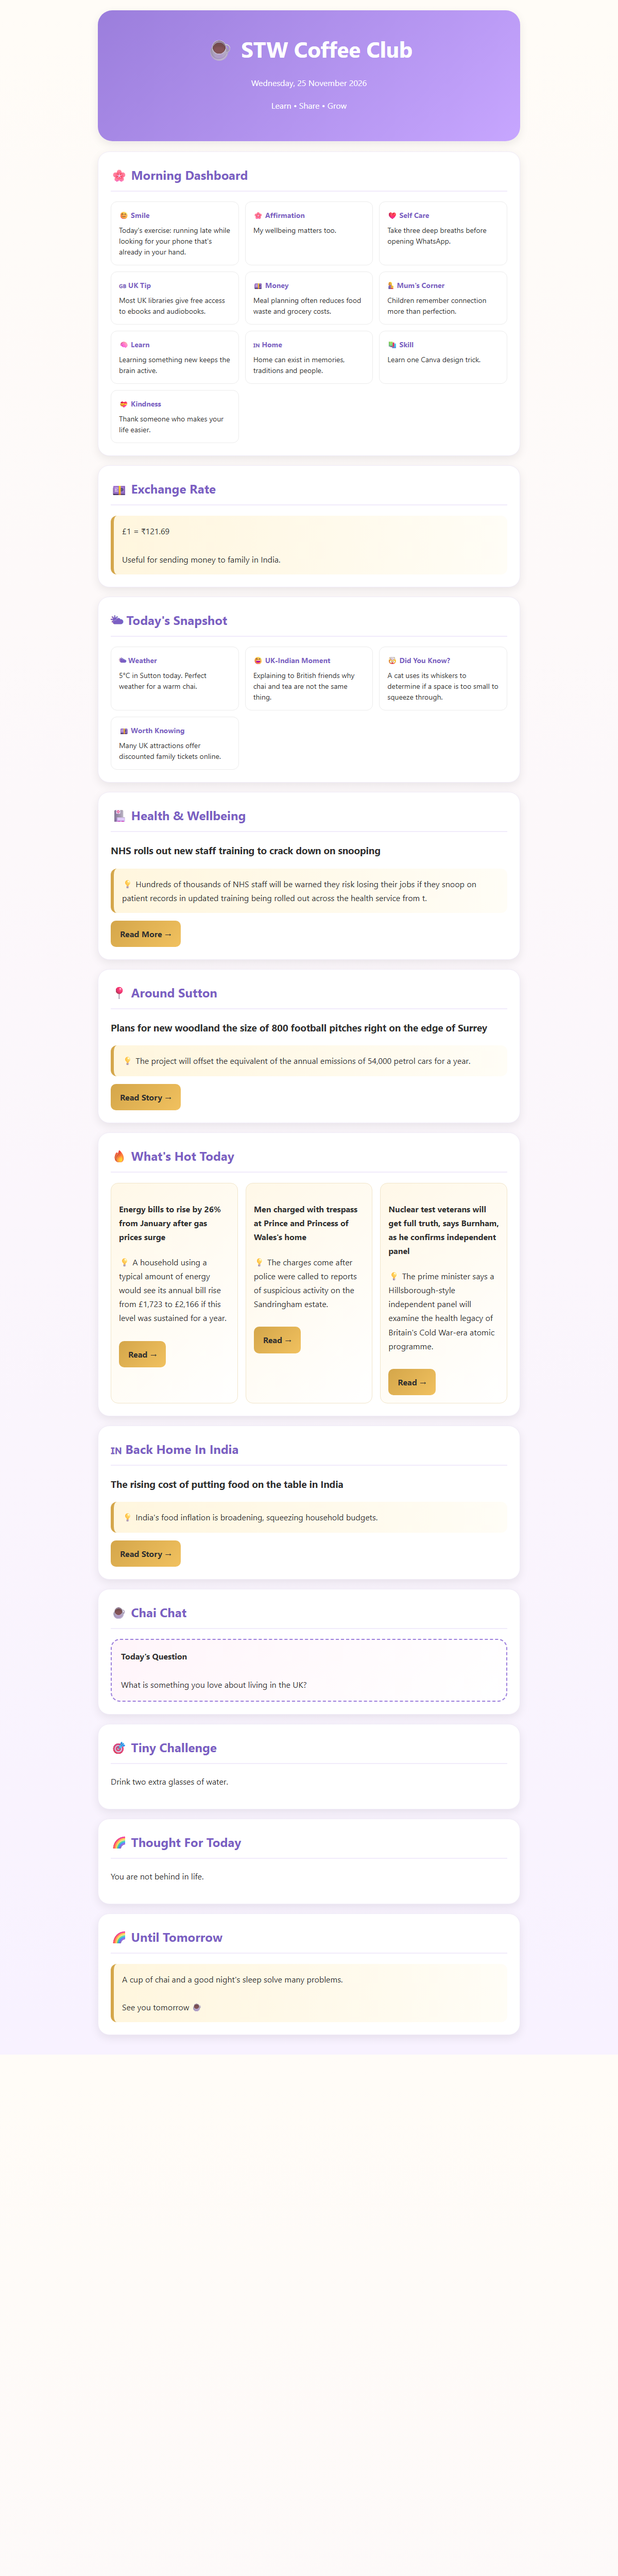
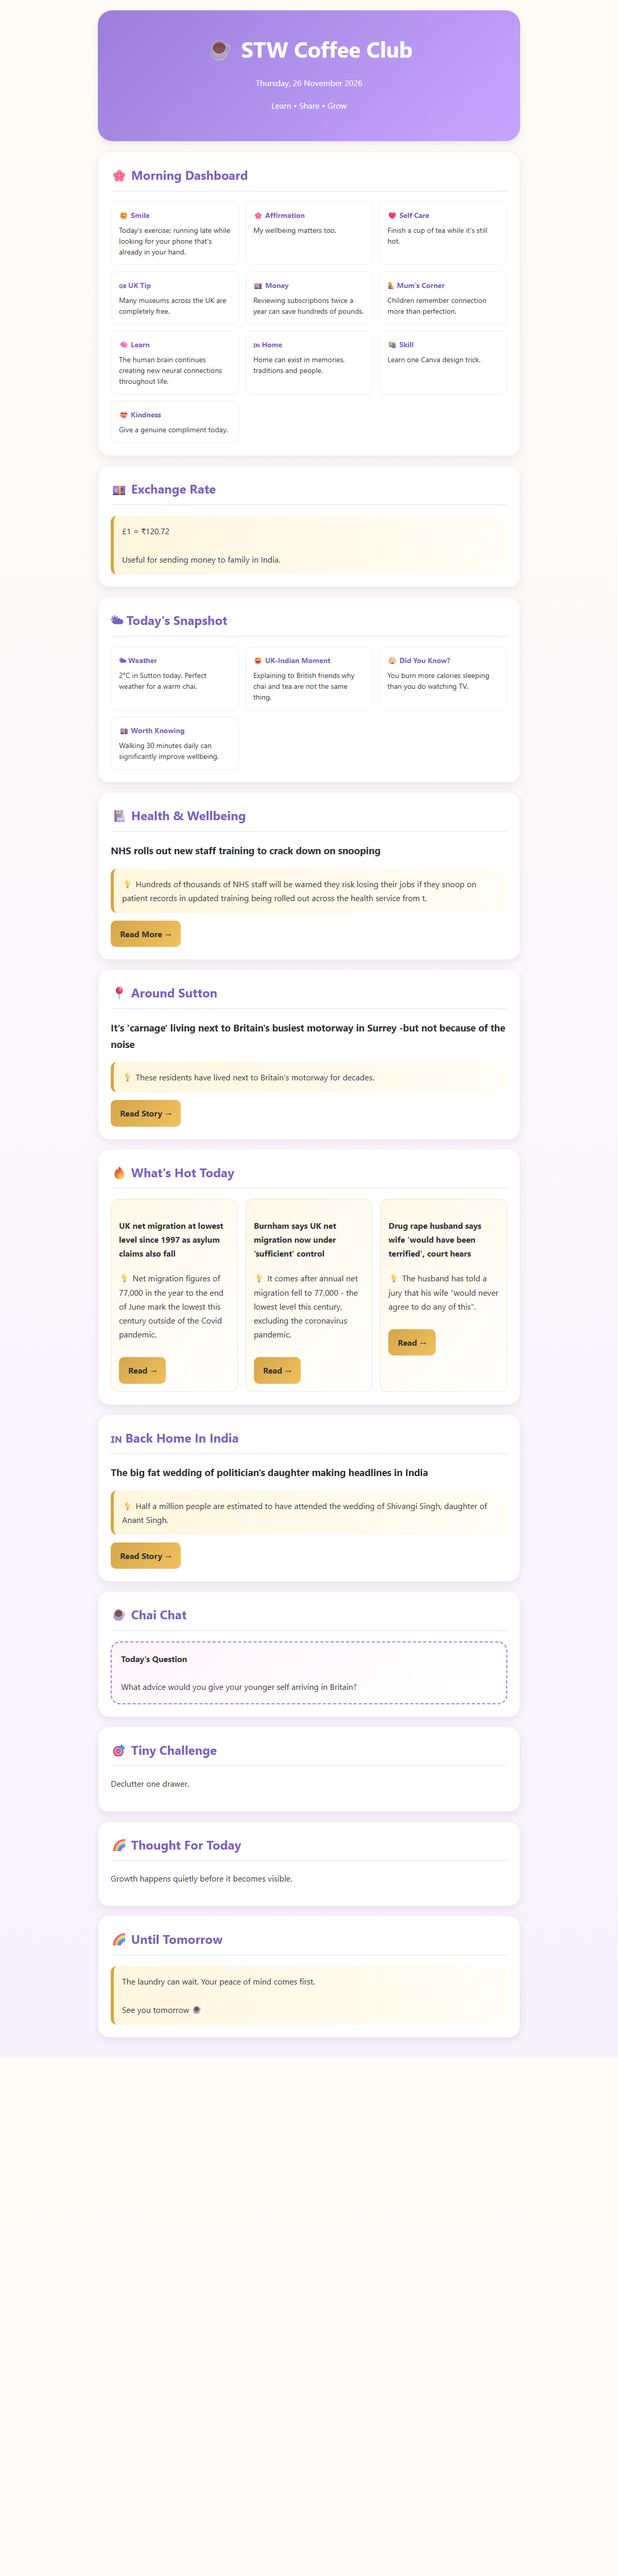
add auto commit

diff --git a/index.html b/index.html
@@ -239,7 +239,7 @@ body {
 
 <h1>☕ STW Coffee Club</h1>
 
-<p>Wednesday, 25 November 2026</p>
+<p>Thursday, 26 November 2026</p>
 
 <p>Learn • Share • Grow</p>
 
@@ -263,17 +263,17 @@ body {
 
         <div class="mini-tile">
             <h4>❤ Self Care</h4>
-            Take three deep breaths before opening WhatsApp.
+            Finish a cup of tea while it's still hot.
         </div>
 
         <div class="mini-tile">
             <h4>🇬🇧 UK Tip</h4>
-            Most UK libraries give free access to ebooks and audiobooks.
+            Many museums across the UK are completely free.
         </div>
 
         <div class="mini-tile">
             <h4>💷 Money</h4>
-            Meal planning often reduces food waste and grocery costs.
+            Reviewing subscriptions twice a year can save hundreds of pounds.
         </div>
 
         <div class="mini-tile">
@@ -283,7 +283,7 @@ body {
 
         <div class="mini-tile">
             <h4>🧠 Learn</h4>
-            Learning something new keeps the brain active.
+            The human brain continues creating new neural connections throughout life.
         </div>
 
         <div class="mini-tile">
@@ -298,7 +298,7 @@ body {
 
         <div class="mini-tile">
             <h4>💝 Kindness</h4>
-            Thank someone who makes your life easier.
+            Give a genuine compliment today.
         </div>
 
     </div>
@@ -309,7 +309,7 @@ body {
         <h2>💷 Exchange Rate</h2>
         
         <div class="highlight">
-        £1 = ₹121.69
+        £1 = ₹120.72
         <br><br>
         Useful for sending money to family in India.
         </div>
@@ -323,7 +323,7 @@ body {
 
         <div class="mini-tile">
         <h4>🌤 Weather</h4>
-        5°C in Sutton today. Perfect weather for a warm chai.
+        2°C in Sutton today. Perfect weather for a warm chai.
         </div>
 
         <div class="mini-tile">
@@ -333,12 +333,12 @@ body {
 
         <div class="mini-tile">
         <h4>🤯 Did You Know?</h4>
-        A cat uses its whiskers to determine if a space is too small to squeeze through.
+        You burn more calories sleeping than you do watching TV.
         </div>
 
         <div class="mini-tile">
         <h4>💷 Worth Knowing</h4>
-        Many UK attractions offer discounted family tickets online.
+        Walking 30 minutes daily can significantly improve wellbeing.
         </div>
 
     </div>
@@ -365,14 +365,14 @@ body {
     <div class="card">
         <h2>📍 Around Sutton</h2>
         
-        <h3>Plans for new woodland the size of 800 football pitches right on the edge of Surrey</h3>
+        <h3>It's 'carnage' living next to Britain's busiest motorway in Surrey  -but not because of the noise</h3>
 
         <div class="highlight">
-        💡 The project will offset the equivalent of the annual emissions of 54,000 petrol cars for a year.
+        💡 These residents have lived next to Britain's motorway for decades.
         </div>
 
         <a class="button"
-        href="https://www.getsurrey.co.uk/news/local-news/plans-new-woodland-size-800-34962641"
+        href="https://www.getsurrey.co.uk/news/surrey-news/its-carnage-living-next-britains-34968979"
         target="_blank">
         Read Story →
         </a>
@@ -385,45 +385,45 @@ body {
     <div class="tile-grid">
     
     <div class="news-tile">
-        <h4>Energy bills to rise by 26% from January after gas prices surge</h4>
+        <h4>UK net migration at lowest level since 1997 as asylum claims also fall</h4>
 
         <p>
-        💡 A household using a typical amount of energy would see its annual bill rise from £1,723 to £2,166 if this level was sustained for a year.
+        💡 Net migration figures of 77,000 in the year to the end of June mark the lowest this century outside of the Covid pandemic.
         </p>
 
         <a
         class="button"
-        href="https://www.bbc.co.uk/news/articles/cm20qnq33e90o?at_medium=RSS&at_campaign=rss"
+        href="https://www.bbc.co.uk/news/articles/cq36gj12n0l3o?at_medium=RSS&at_campaign=rss"
         target="_blank">
         Read →
         </a>
     </div>
     
     <div class="news-tile">
-        <h4>Men charged with trespass at Prince and Princess of Wales's home</h4>
+        <h4>Burnham says UK net migration now under 'sufficient' control</h4>
 
         <p>
-        💡 The charges come after police were called to reports of suspicious activity on the Sandringham estate.
+        💡 It comes after annual net migration fell to 77,000 - the lowest level this century, excluding the coronavirus pandemic.
         </p>
 
         <a
         class="button"
-        href="https://www.bbc.co.uk/news/articles/cx5y1987dyp6o?at_medium=RSS&at_campaign=rss"
+        href="https://www.bbc.co.uk/news/articles/ck792l8ndqyqo?at_medium=RSS&at_campaign=rss"
         target="_blank">
         Read →
         </a>
     </div>
     
     <div class="news-tile">
-        <h4>Nuclear test veterans will get full truth, says Burnham, as he confirms independent panel</h4>
+        <h4>Drug rape husband says wife 'would have been terrified', court hears</h4>
 
         <p>
-        💡 The prime minister says a Hillsborough-style independent panel will examine the health legacy of Britain's Cold War-era atomic programme.
+        💡 The husband has told a jury that his wife "would never agree to do any of this".
         </p>
 
         <a
         class="button"
-        href="https://www.bbc.co.uk/news/articles/c6808k8dxvgko?at_medium=RSS&at_campaign=rss"
+        href="https://www.bbc.co.uk/news/articles/ck053epz2ppmo?at_medium=RSS&at_campaign=rss"
         target="_blank">
         Read →
         </a>
@@ -436,14 +436,14 @@ body {
     <div class="card">
         <h2>🇮🇳 Back Home In India</h2>
         
-        <h3>The rising cost of putting food on the table in India</h3>
+        <h3>The big fat wedding of politician's daughter making headlines in India</h3>
 
         <div class="highlight">
-        💡 India's food inflation is broadening, squeezing household budgets.
+        💡 Half a million people are estimated to have attended the wedding of Shivangi Singh, daughter of Anant Singh.
         </div>
 
         <a class="button"
-        href="https://www.bbc.co.uk/news/articles/cmy0xj41kl50o?at_medium=RSS&at_campaign=rss"
+        href="https://www.bbc.co.uk/news/articles/cvj6l162j0rpo?at_medium=RSS&at_campaign=rss"
         target="_blank">
         Read Story →
         </a>
@@ -458,7 +458,7 @@ body {
 
     <br><br>
 
-    What is something you love about living in the UK?
+    What advice would you give your younger self arriving in Britain?
 
     </div>
     
@@ -466,19 +466,19 @@ body {
     
     <div class="card">
         <h2>🎯 Tiny Challenge</h2>
-        <p>Drink two extra glasses of water.</p>
+        <p>Declutter one drawer.</p>
     </div>
     
     <div class="card">
         <h2>🌈 Thought For Today</h2>
-        <p>You are not behind in life.</p>
+        <p>Growth happens quietly before it becomes visible.</p>
     </div>
     
     <div class="card">
         <h2>🌈 Until Tomorrow</h2>
         
     <div class="highlight">
-    A cup of chai and a good night's sleep solve many problems.
+    The laundry can wait. Your peace of mind comes first.
     <br><br>
     See you tomorrow ☕
     </div>

diff --git a/newsletter.py b/newsletter.py
@@ -6,15 +6,16 @@ import re
 
 from pathlib import Path
 from datetime import datetime
+from datetime import datetime
+from zoneinfo import ZoneInfo
 
 OUTPUT = Path("output")
 OUTPUT.mkdir(exist_ok=True)
 
 SITE_NAME = "☕ STW Coffee Club"
 
-TODAY = datetime.now().strftime(
-    "%A, %d %B %Y"
-)
+uk_time = datetime.now(ZoneInfo("Europe/London"))
+TODAY = uk_time.strftime("%A, %d %B %Y")
 
 LAT = 51.3618
 LON = -0.1945
